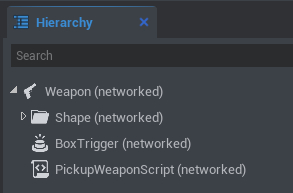
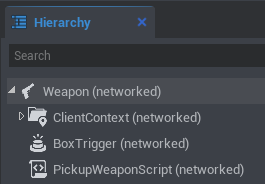
Fixed Weapon Tutorial Numbers
Fixed all the broken numbered lists and updated images, now is a fairly complete tutorial. Only need function in AttackScript still.

diff --git a/docs/editor/weapons.md b/docs/editor/weapons.md
@@ -3,7 +3,7 @@
 In a lot of video games, the main character uses a weapon to make their way through the game world. "Weapon" can mean a gun, an axe, or even a tomato grenade. 
 Programming a weapon can be the most complicated part of making a game, but to make that easier, Core comes with a built-in weapon system!
 
-![A Sniper Rifle](/img/EditorManual/Weapons/holdingWeapon.PNG)
+![A Sniper Rifle](/img/EditorManual/Weapons/holdingWeaponNew.PNG)
 
 In Core, a `weapon` is an `equipment` type of object that can be created in any Core project. 
 
@@ -11,7 +11,8 @@ When a player picks up or *equips* a weapon object, the player is instantly able
 So to create a weapon like a rifle, all that needs to be done is to spawn a weapon, modify the settings for how far the weapon can shoot, and equip it to a player.
 
 !!! info
-    A weapon can be anything imaginable that the player holds and uses to interact with the world.
+    A weapon can be anything imaginable that the player holds and uses to interact with the world.  
+    This could be a fishing pole, a wand--anything that the player would use.
 
 ## Tutorial
 
@@ -28,8 +29,9 @@ In this tutorial, we will be adding a really simple gun to an empty project.
 2. The weapon will be completely "empty" having no visible parts at first!  
  The look of the weapon can be made from any Core primitaves and shapes.
  These shapes should all be contained in a folder, and this folder should be made a child of the weapon by dragging the folder onto the weapon.  
- This attaches the look of the weapon to the function of the weapon! 
-   
+ This attaches the look of the weapon to the function of the weapon!  
+  ![Steampunk Rifle](/img/EditorManual/Weapons/steampunkRifle.PNG)
+
 3. Right click on that folder of shapes, and click Create Network Context > Create New Client Context Containing This.  
 This puts a lot less pressure on the game to run well. To understand more about a Client Context, read [the related page].
 
@@ -41,18 +43,14 @@ Type "Press F to Equip" in the Interaction Label spot. This is what displays whe
 5. To allow the trigger to detect if the player is close enough to the weapon to pick it up, we need to create a script called `PickupWeaponScript`. In the *Asset Manifest*, click the create script button to make a new empty script.
 
 6. Currently, the weapon can't shoot anything! For a bullet to fire out of the gun when using Left Click to fire, a bullet template needs to be dragged into the weapon.  
- Click on the weapon in the hierarchy. In the Properties window, scroll down to the Projectile section. There is a property called "Projectile Template". Here is where we would drag a template for the bullet!  
-
- To do this, let's add a capsule shape to our project Hierarchy. Change the scale to shrink the size until you are satisfyied with the bullet shape. Right click the shape, and click "Enable Networking".
+ Click on the weapon in the hierarchy. In the Properties window, scroll down to the Projectile section. There is a property called "**Projectile Template**". Here is where we would drag a template for the bullet!  
+  To do this, let's add a capsule shape to our project Hierarchy. Change the scale to shrink the size until you are satisfyied with the bullet shape. Right click the shape, and click "Enable Networking".
  Next, right click this capsule, and click "Create New Template From This".  
- 
- Once it is a template, delete it from the project Hierarchy. We now can drag that bullet template from our Asset Manifest into the Projectile Template property of the weapon!
+  Once it is a template, delete it from the project Hierarchy. We now can drag that bullet template from our Asset Manifest into the Projectile Template property of the weapon!
 
-7. Drag the `PickupWeaponScript` into the Hierarchy. Then, drag both that script and the BoxTrigger onto the weapon.
-
-   This will cause the trigger and script to be children of the weapon, making it easier to access variables and keep everything contained.
-   The hierarchy should now look like this:
-
+7. Drag the `PickupWeaponScript` into the Hierarchy. Then, drag both that script and the BoxTrigger onto the weapon.  
+ This will cause the trigger and script to be children of the weapon, making it easier to access variables and keep everything contained.  
+  The hierarchy should now look like this:  
    ![Weapon Hierarchy](/img/EditorManual/Weapons/hierarchy.png)
    
 8. Lastly for the setup, right click on the weapon in the Hierarchy, and click "Enable Networking" to allow the gun to be picked up properly.
@@ -60,7 +58,6 @@ Type "Press F to Equip" in the Interaction Label spot. This is what displays whe
 ### Programming the Weapon
 
 1. The first step to writing this script is being able to access the things that we want. In this case, that would be both the trigger and the weapon. Get a reference to these things by using the code below:
-
    ```lua
    local weapon = script.parent
    local trigger = weapon:FindChildByType("Trigger")
@@ -68,7 +65,6 @@ Type "Press F to Equip" in the Interaction Label spot. This is what displays whe
 
 2. To actually make the equipping happen when the player is near the weapon, we need a function connected to an event.  
    This code can also be taken from the script generator for Overlap Events, but copy this code below into your script:
-
    ```lua
    function OnInteracted(whichTrigger, other)
        if other:IsA("Player") then
@@ -76,21 +72,16 @@ Type "Press F to Equip" in the Interaction Label spot. This is what displays whe
 	   end
    end
    ```  
-
-  This is a function that takes in both a trigger `whichTrigger` and an object `other`. When any Core object overlaps the trigger, it will cause this function to happen.  
-
-  The code inside the function is checking if the `other` object is a player. If `other` is a player, then it does the code contained within it: equip the weapon onto `other`!  
+   This is a function that takes in both a trigger `whichTrigger` and an object `other`. When any Core object overlaps the trigger, it will cause this function to happen.  
+    The code inside the function is checking if the `other` object is a player. If `other` is a player, then it does the code contained within it: equip the weapon onto `other`!  
 
 3. To actually tie the function we made to the moment something overlaps the trigger, we need to connect the function to the trigger's interacted event. Copy this code to the very bottom of the `PickupWeaponScript`:
-
    ```lua
    trigger.interactedEvent:Connect(OnInteracted)
    ```
 
-4. Now that the function we made will actually happen, there is some fixing to be done. If you've tried to hit play and pick up the weapon, it does get picked up, but walking becomes impossible. Unless you already turned off the collision of the weapon's shape, this needs to be done in scripting.
-
+4. Now that the function we made will actually happen, there is some fixing to be done. If you've tried to hit play and pick up the weapon, it does get picked up, but walking becomes impossible. Unless you already turned off the collision of the weapon's shape, this needs to be done in scripting.  
    To turn off the collision when the player picks up the weapon, we will want to make a new function and connect it to the equipped event of the weapon. To do this, let's make a new function called `Pickup()`. Copy the code from below and paste it beneath the `OnInteracted()` function, and above the `:Connect()`:
-
    ```lua
    function Pickup(equipment,  player)
 	   trigger.isInteractable = false
@@ -100,7 +91,6 @@ Type "Press F to Equip" in the Interaction Label spot. This is what displays whe
    This turns off both the collision of the shape so that the player can't constantly run into it anymore, and turns off the interaction of the weapon, so that another player cannot walk up and take it from you!
 
 5. So that handles what happens when a player picks up a weapon, but what about when they drop it? That interaction and collision needs to be turned back on. The code for that is almost exactly the same, but we will use a separate function called `Drop()`. Copy this code and paste it into your `PickupWeaponScript`, directly beneath the `Pickup()` function:
-
    ```lua
    function Drop()
 	   trigger.isInteractable = true
@@ -109,16 +99,13 @@ Type "Press F to Equip" in the Interaction Label spot. This is what displays whe
    ```
 
 6. Now that we have created all these functions for Pickup and Drop, we need to connect them to the corresponding event on the weapon. Copy this code below:
-
    ```lua
    weapon.equippedEvent:Connect(Pickup)
    weapon.unequippedEvent:Connect(Drop)
-   ```
-
-   This causes the `Pickup()` function to happen any time the weapon is equipped, and `Drop()` to happen any time the weapon is unequipped.
-
-At this time, when testing the game, you should be able to pick up the gun and fire it, but nothing will shoot out of the gun.  
-You should also be able to pick up a second weapon if you duplicate the first weapon.
+   ```  
+    This causes the `Pickup()` function to happen any time the weapon is equipped, and `Drop()` to happen any time the weapon is unequipped.  
+     At this time, when testing the game, you should be able to pick up the gun and fire it, but nothing will shoot out of the gun.  
+      You should also be able to pick up a second weapon if you duplicate the first weapon.
 
 ### The Attack Script
 
@@ -127,23 +114,25 @@ To get the gun to fire when shot, we need to create an `AttackScript`. This will
 !!! info "Not All Weapons Need to Shoot"
     The weapon system can be used for things that aren't weapons! If you were making a bubble blower, or a fishing pole, maybe you wouldn't call it "Attack Script" but whatever fits your weapon type. The key is that this is what actually happen when the player uses the weapon!
     
-1. The first step is to create a new script, and call it `AttackScript`. 
+1. The first step is to create a new script, and call it `AttackScript`.  Drag this empty script onto the weapon in the Hierarchy.  
+ The Hierarchy should now look like this:  
+  ![Current Weapon Hierarchy](/img/EditorManual/Weapons/hierarchy2.png)
 
 2. make it hurt players on impact
+
+3. finish this tutorial
 
 ### Polish the Weapon
 
 1. What happens if the player picks up a weapon while they are already holding one? Bad stuff! To fix the weapon so the player can only hold one at a time, we need to add code in the `Pickup()` event of the `PickupWeaponScript`. Add this code below to `Pickup()`:
-
    ```lua
     for _,prevEquip in pairs(player:GetEquipment()) do
         if (prevEquip ~= weapon and prevEquip.socket == weapon.socket) then
             prevEquip:Unequip()
         end
     end
-   ```
-With this added, the entire Pickup() function should now look like this:
-
+   ```  
+    With this added, the entire `Pickup()` function should now look like this:
    ```lua
    function Pickup(equipment,  player)
 	 -- remove any equipment the player already has
@@ -164,4 +153,5 @@ A second example will show how to have a player start with a specific weapon equ
 
 ## Examples
 
-*Garden Warfare* includes several weapons used in various ways. 
+**ETDM: Abduction** includes fully functional weapons and game logic created by the Lead Gameplay Programmer.  
+ **Garden Warfare** includes several functional weapons used in various ways, created by several Interns. 
